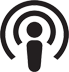
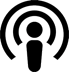
styled InterestsItem and changed podcasts image

diff --git a/src/styles/main.css b/src/styles/main.css
@@ -626,3 +626,14 @@ blockquote.quote .fa-quote-right {
   font-size: 12px;
   margin-right: 0.15em;
 }
+
+.interests-item {
+  margin-right: 0.5em;
+  font-size: 12px;
+  font-weight: 700;
+  text-align: center;
+}
+.interests-item img {
+  height: 54px;
+  opacity: 0.7;
+}
